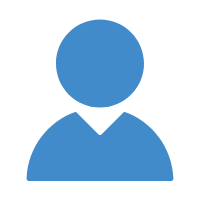
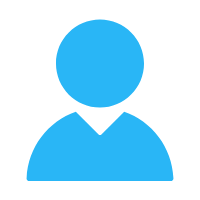
update a log

diff --git a/style/iconfont.css b/style/iconfont.css
@@ -1,6 +1,6 @@
 @font-face {
     font-family: 'iconfont';
[2 lines of base64/hex data omitted]
     font-weight: normal;
     font-style: normal;
 }
@@ -12,7 +12,24 @@
   font-style:normal;
   -webkit-font-smoothing: antialiased;
   -moz-osx-font-smoothing: grayscale;
+  display: inline-block;
 }
+
+.icon-share:before { content: "\e6f3"; }
+
+.icon-money2:before { content: "\e91b"; }
+
+.icon-cc-write:before { content: "\e6b3"; }
+
+.icon-heartempty:before { content: "\e64a"; }
+
+.icon-arrow1r:before { content: "\e619"; }
+
+.icon-iosrefreshempty:before { content: "\e839"; }
+
+.icon-star:before { content: "\e658"; }
+
+.icon-hongbao:before { content: "\e784"; }
 
 .icon-085shucezhongxin:before { content: "\e65a"; }
 
@@ -22,23 +39,51 @@
 
 .icon-29:before { content: "\e61a"; }
 
+.icon-i-message:before { content: "\e60d"; }
+
+.icon-clear:before { content: "\e64b"; }
+
+.icon-star1:before { content: "\e62c"; }
+
+.icon-clearup:before { content: "\e64d"; }
+
+.icon-arrowdown:before { content: "\e61b"; }
+
+.icon-arrowon:before { content: "\e61c"; }
+
 .icon-dianhua:before { content: "\e607"; }
 
 .icon-shuqian:before { content: "\e61f"; }
+
+.icon-icon3:before { content: "\e67f"; }
+
+.icon-good:before { content: "\e612"; }
 
 .icon-book1:before { content: "\e631"; }
 
 .icon-yaoqingjiangli:before { content: "\e632"; }
 
+.icon-arrowleft:before { content: "\e610"; }
+
+.icon-time:before { content: "\e637"; }
+
 .icon-user:before { content: "\e618"; }
+
+.icon-detail:before { content: "\e608"; }
 
 .icon-arrow-right_s:before { content: "\e602"; }
 
+.icon-right_b:before { content: "\e697"; }
+
 .icon-tianqitubiao_qingtianzhou:before { content: "\e604"; }
+
+.icon-font:before { content: "\e800"; }
 
 .icon-book_icon:before { content: "\e66c"; }
 
 .icon-tubiao-:before { content: "\e64f"; }
+
+.icon-wushuju:before { content: "\e643"; }
 
 .icon-bangzhuzhongxin:before { content: "\e76a"; }
 
@@ -48,7 +93,11 @@
 
 .icon-wo:before { content: "\e636"; }
 
+.icon-laba:before { content: "\e60c"; }
+
 .icon-guanyuwomen:before { content: "\e601"; }
+
+.icon-mulu:before { content: "\e603"; }
 
 .icon-shuji:before { content: "\e606"; }
 
@@ -57,4 +106,8 @@
 .icon-search:before { content: "\e642"; }
 
 .icon-icon_shuchengnor:before { content: "\e605"; }
+
+.icon-fanhuidingbu:before { content: "\e6f8"; }
+
+.icon-empty:before { content: "\e6f7"; }
 

diff --git a/pages/bookShelf/bookShelf.less b/pages/bookShelf/bookShelf.less
@@ -4,22 +4,25 @@
     flex-flow: column;
     justify-content: center; /*水平*/
     .book-basic {
-        display: flex;
+        width: 100%;
         height: 180px;
         box-sizing: border-box;
-        border-bottom: 1px solid #f8f8f8;
         padding: 30px 15px;
-        // background: red;
-        position: relative;
         overflow: hidden;
         margin-bottom: 15px;
+        position: fixed;
+        z-index: 20;
+        top: 0;
+        left: 0;
+        background: #fff;
+        box-shadow: 0 0 5px #ccc;
         .mask-bg-img {
             width: 100%;
             height: 100%;
             left: 0;
             top: 0;
             position: absolute;
-            z-index: 1;
+            z-index: 2;
             opacity: 0.1;
         }
 
@@ -35,25 +38,41 @@
 
         .detail {
             padding-left: 15px;
-            padding-right: 15px;
             color: #999;
-            .detail-title {
-                font-size: 16px;
-                font-weight: bold;
-                color: #666;
-                margin-bottom: 10px;
-            }
-            .detail-writer {
-                font-size: 14px;
-                margin-bottom: 5px;
+            flex: 1;
+            display: flex;
+            flex-direction: column;
+            justify-content: space-between;
+            
+            .detail-top {
+                padding-right: 15px;
+                .detail-title {
+                	font-size: 16px;
+                	font-weight: bold;
+                	color: #666;
+                	margin-bottom: 10px;
+                }
+                .detail-writer {
+                	font-size: 14px;
+                	margin-bottom: 5px;
+                }
             }
 
+            .detail-btn-wrap {
+                text-align: right;
+            }
             .btn-keep-read {
                 display: inline-block;
                 font-size: 14px;
-                background: #F8F8F8;
-                color: #999;
+                background: @theme-color;
+                color: #fff;
                 padding: 5px 15px;
+                position: relative;
+                z-index: 12;
+
+                &:active {
+                    background: darken(@theme-color, 5%);
+                }
             }
         }
     }
@@ -61,23 +80,23 @@
     .list-wrap {
         width: 100%;
         max-width: 100%;
+        margin-top: 180px;
         display: flex;
         justify-content: space-between;
-        // align-items: center; /*垂直*/
         flex-wrap: wrap; /*超出宽度强制换行*/
         padding: 15px;
-        padding-top: 0;
         box-sizing: border-box;
+        z-index: 1;
 
         .list-item {
             width: 30%;
             max-width: 120px;
-            // border: 1px solid #eaeaea;
             margin-bottom: 15px;
-            // overflow: hidden;
-            // box-shadow: 0 0 5px #ccc;
-            // border-radius: 4px;
             overflow: hidden;
+            
+            &:active {
+                background: #f8f8f8;
+            }
 
             .cover {
                 width: 100%;
@@ -105,7 +124,11 @@
             text-align: center;
             font-size: 40px;
             color: #999;
-            box-shadow: 0 0 5px #ccc;
+            box-shadow: 0 0 5px #aaa;
+            
+            &:active {
+                background: #f8f8f8;
+            }
         }
 
         .list-item-placeholder {

diff --git a/pages/bookShelf/bookShelf.vue b/pages/bookShelf/bookShelf.vue
@@ -5,13 +5,17 @@
         	<view class="book-main-wrap">
         		<image class="avatar" :src="recentItem.cover" mode="scaleToFill"></image>
         		<view class="detail">
-        			<view class="detail-title">
-        			{{recentItem.title}}
-        			</view>
-        			<view class="detail-writer">
-        		{{recentItem.writer}}
-        			</view>
-        			<view class="btn-keep-read ripple"> 继续阅读</view>
+              <view class="detail-top">
+                <view class="detail-title">
+                  {{recentItem.title}}
+                </view>
+                <view class="detail-writer">
+                  {{recentItem.writer}}
+                </view>
+              </view>
+              <view class="detail-btn-wrap">
+                <view class="btn-keep-read" @click="goBookDetail(recentItem)"> 继续阅读</view>
+              </view>
         		</view>
         	</view>
         </view>
@@ -21,8 +25,8 @@
                 <cc-loading></cc-loading>
             </view>
             <view v-else class="list-wrap">
-                <view class="list-item ripple" @click="setCurrentBook(item)" v-for="(item,index) in itemList" :key="index">
-                    <image :src="item.cover" class="cover" mode="scaleToFill" @click="previewImg(item)"></image>
+                <view class="list-item " @click="goBookDetail(item)" v-for="(item,index) in itemList" :key="index">
+                    <image :src="item.cover" class="cover" mode="scaleToFill"></image>
                     <view class="basic-info">
                     <view class="title">
                         {{item.title}}
@@ -33,7 +37,7 @@
                     </view>
                 </view>
                 
-                <view class="list-item list-item-plus ripple" @click="pushItem">
+                <view class="list-item list-item-plus " @click="pushItem">
                     +
                 </view>
                 <view class="list-item-placeholder" v-if="itemList.length % 3 == 1">
@@ -72,7 +76,9 @@ export default {
 
     methods: {
         setCurrentBook(item) {
-            // this.recentItem = item
+            this.recentItem = item;
+        },
+        goBookDetail(item) {
             uni.navigateTo({
                 url: '/pages/bookDetail/bookDetail'
             });

diff --git a/pages/search/searchBook/searchBook.vue b/pages/search/searchBook/searchBook.vue
@@ -5,7 +5,7 @@
         <view class="search-tag-wrap">
             <view class="title title-with-icon">
                 <view>大家都在搜 </view>
-                <view class="iconfont icon-yaoqingjiangli" @click="doShuffle"></view>
+                <view>换一换<view class="iconfont icon-iosrefreshempty" style="position: relative;top: 1px;" @click="doShuffle"></view></view>
             </view>
             
             <view class="tag-wrap tag-all">
@@ -19,7 +19,7 @@
         <view class="search-tag-wrap ">
             <view class="title title-with-icon">
                 <view>搜索历史</view>
-                <view class="iconfont icon-yaoqingjiangli"></view>
+                <view class="iconfont icon-empty"></view>
             </view>
             
             <view class="tag-wrap tag-history">

diff --git a/pages/search/searchResult/searchResult.vue b/pages/search/searchResult/searchResult.vue
@@ -15,8 +15,8 @@
                                 <view class="writer-name">{{item.writer}}</view>
                             </view>
                         </view>
-                        <view class="header-right">
-                            <view class="add-book-shelf" @click="addToBookShelf">
+                        <view class="header-right" @click.stop="addToBookShelf">
+                            <view class="add-book-shelf">
                                 加书架
                             </view>
                         </view>

diff --git a/pages/index/index.vue b/pages/index/index.vue
@@ -1,6 +1,6 @@
 <template>
 	<view class="content">
-       <swiper :indicator-dots="indicatorDots" style="height: 400upx;" :autoplay="autoplay" :circular="true" :interval="interval" :duration="duration">
+       <swiper :indicator-dots="indicatorDots" style="height: 180px;" :autoplay="autoplay" :circular="true" :interval="interval" :duration="duration">
             <swiper-item v-for="(item, index) in itemList" :key="index" >
                 <image style="width: 100%;" :src="item" mode="scaleToFill"></image>
             </swiper-item>

diff --git a/pages/bookDetail/bookDetail.vue b/pages/bookDetail/bookDetail.vue
@@ -35,7 +35,9 @@
             <view class="place-bg"></view>
 
             <view class="directory-wrap">
-                <view class="dir-title">目录</view>
+                <view class="dir-title">
+                   <view class="iconfont icon-mulu"></view> 目录
+                </view>
                 <view class="dir-list-wrap">
                     <view class="dir-list-item">
                         <view class="text">第一章</view>

diff --git a/components/cc-loading.vue b/components/cc-loading.vue
@@ -29,9 +29,9 @@
 <style>
 	.sk-folding-cube {
   margin: 20px auto;
-  margin-top: 100px;
-  width: 40px;
-  height: 40px;
+  margin-top: 300px;
+  width: 30px;
+  height: 30px;
   position: relative;
   -webkit-transform: rotateZ(45deg);
           transform: rotateZ(45deg);

diff --git a/pages/userCenter/userCenter.less b/pages/userCenter/userCenter.less
@@ -24,6 +24,7 @@
                 box-sizing: border-box;
                 border: 2px solid @grey-light;
                 overflow: hidden;
+                text-align: center;
 
                 .avatar-img {
                     width: 100%;

diff --git a/pages/bookDetail/bookDetail.less b/pages/bookDetail/bookDetail.less
@@ -3,7 +3,7 @@
 .book-detail-page {
     @bottom-btn-height: 50px;
     .main-detail-wrap {
-        padding-bottom: @bottom-btn-height + 20px;
+        padding-bottom: @bottom-btn-height;
 
         .book-basic {
             display: flex;

diff --git a/pages/search/searchResult/searchResult.less b/pages/search/searchResult/searchResult.less
@@ -54,6 +54,7 @@
                 }
 
                 .header-right {
+                    // background: red;
                     .add-book-shelf {
                         font-size: 12px;
                         padding: 5px 10px;

diff --git a/style/variable.less b/style/variable.less
@@ -1,4 +1,4 @@
-@theme-color: #039be5;
+@theme-color: #29b6f6;
 @theme-color-dark: #607D8B;
 
 @grey-deep: #333;
